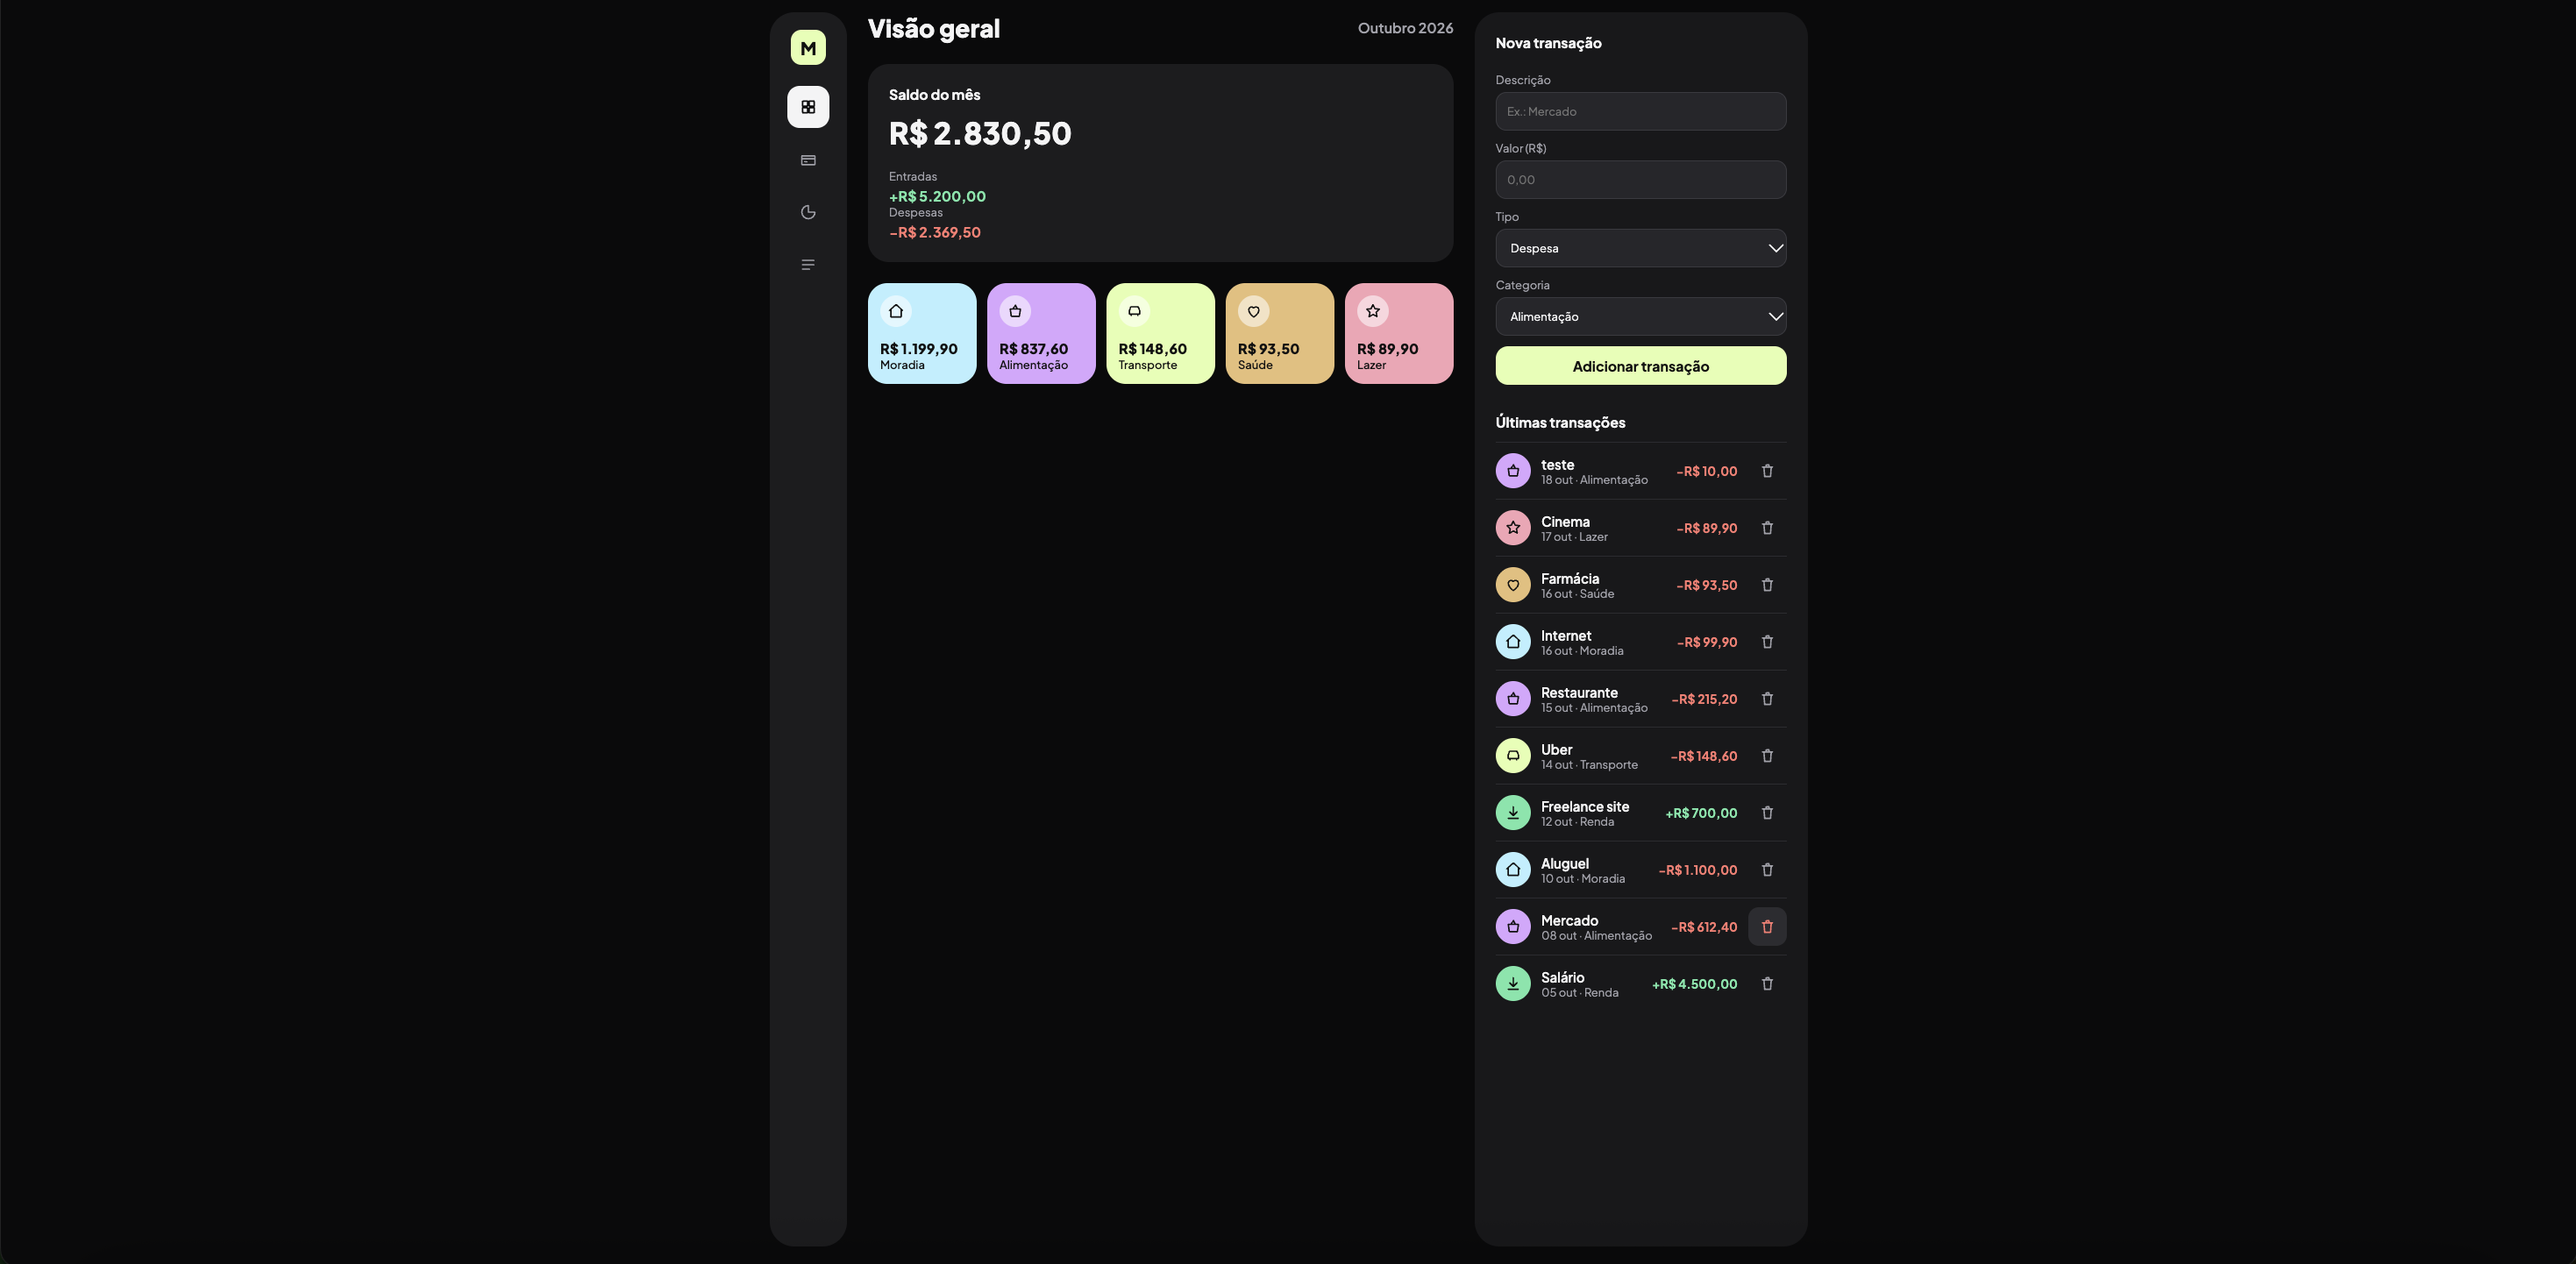
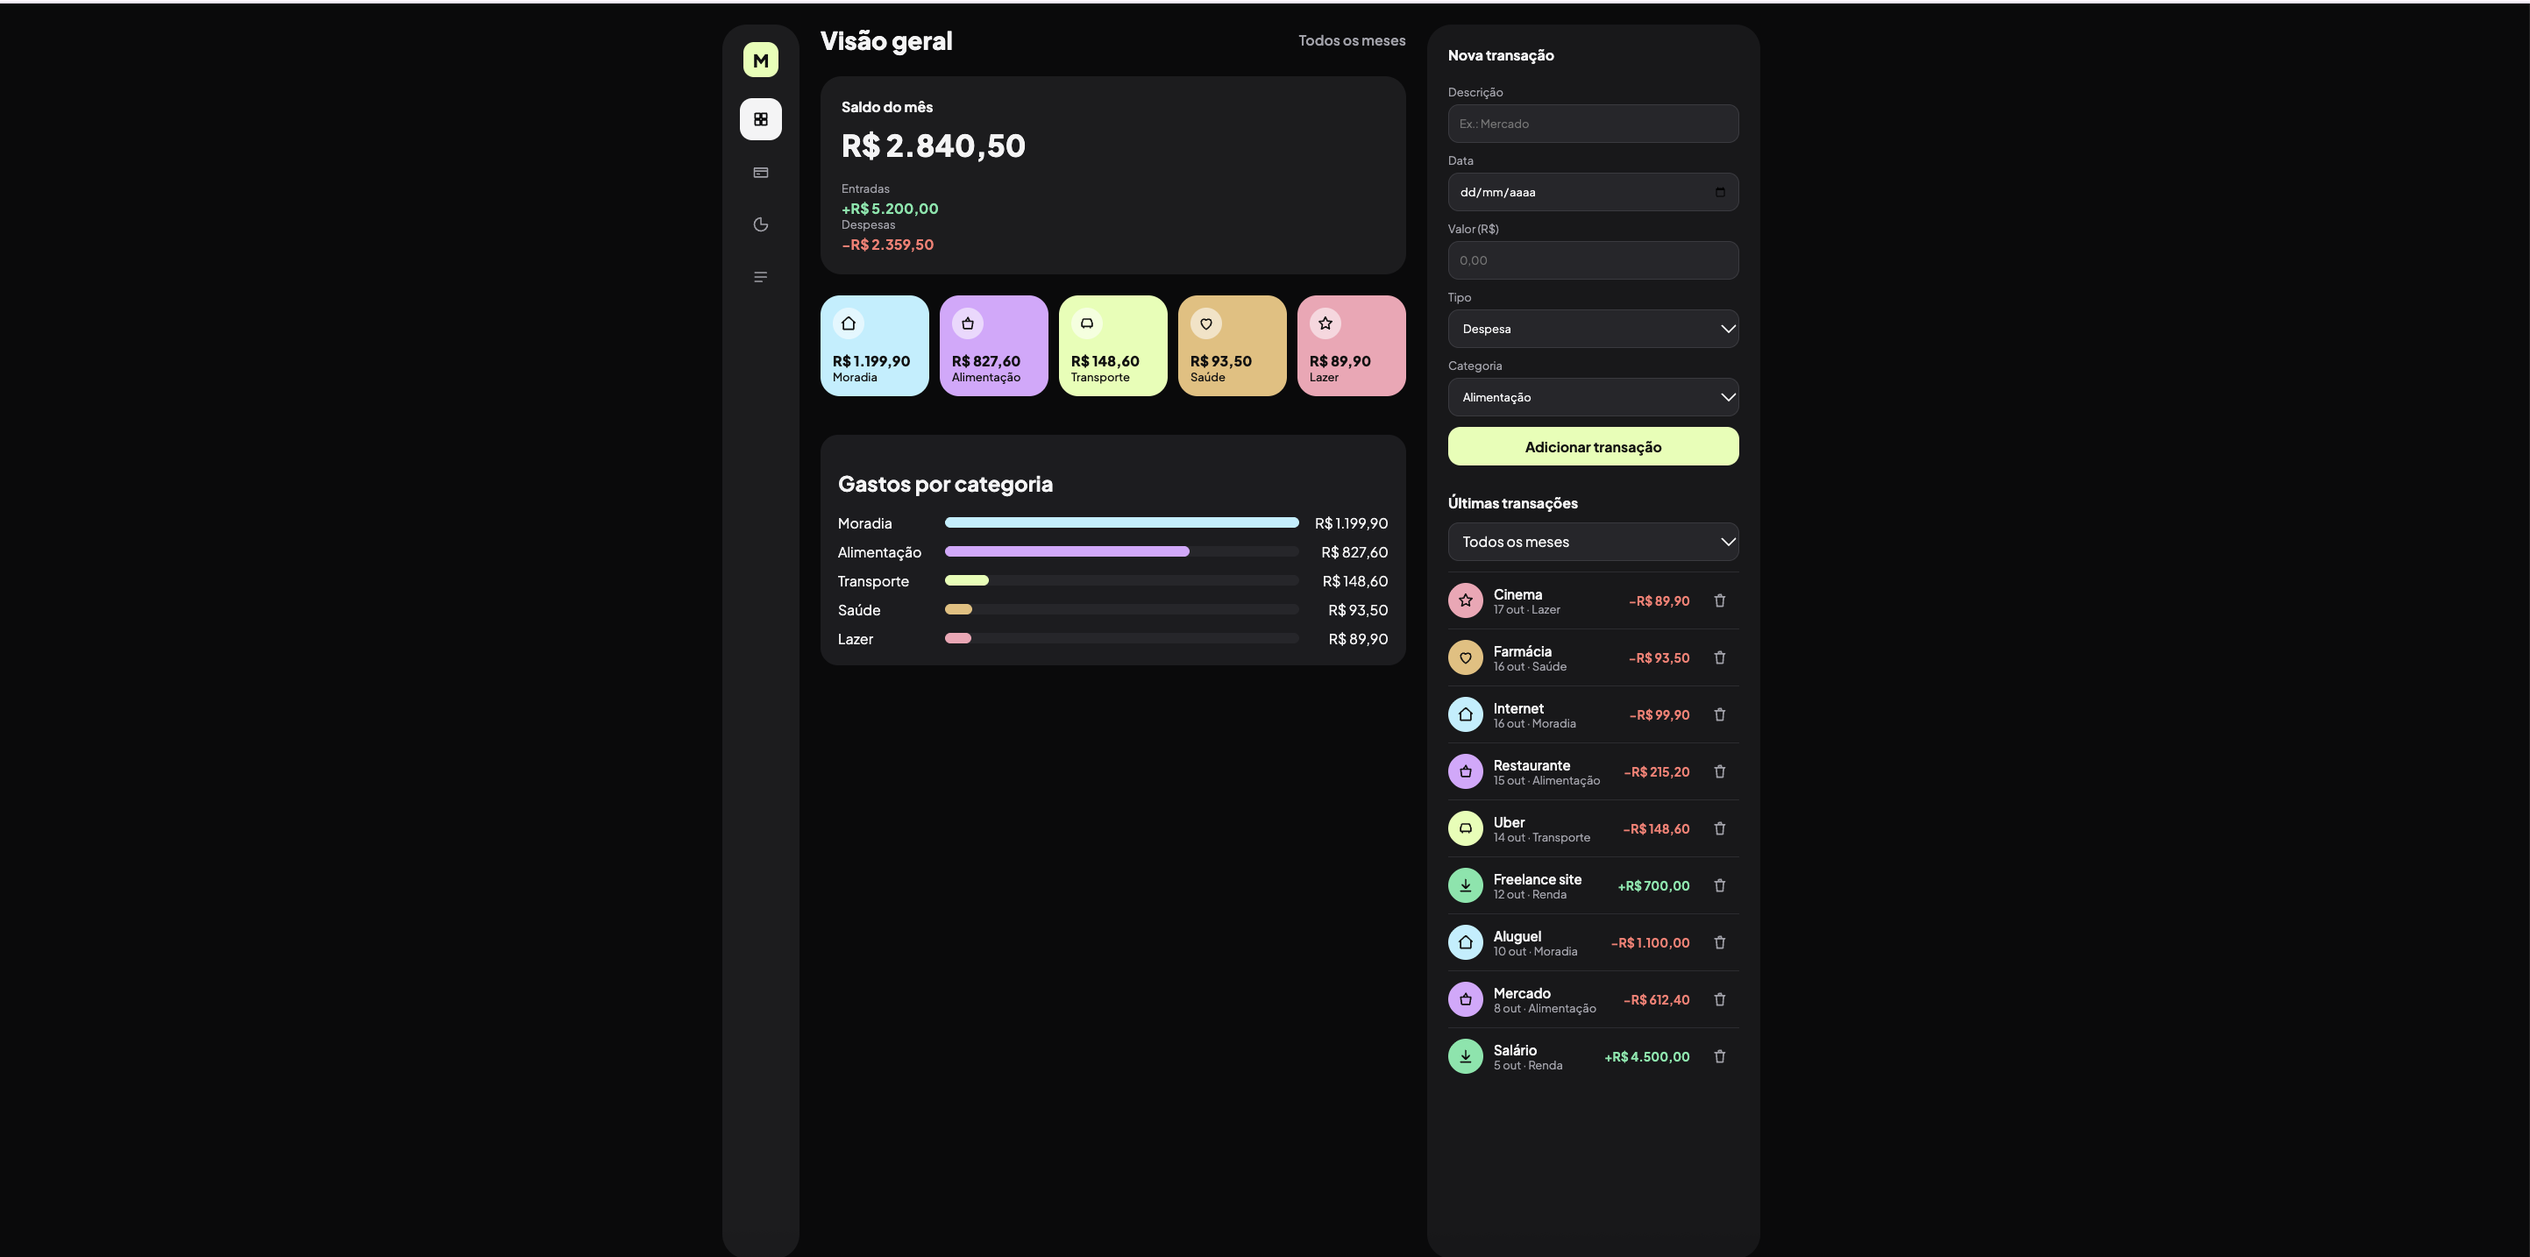
Atualiza README

Changed region(s): [[0.2807, 0.0, 0.7173, 0.8591], [0.9979, 0.0, 1.0, 1.0], [0.499, 0.0, 0.6237, 0.1841]]

diff --git a/README.md b/README.md
@@ -1,17 +1,22 @@
 # MoneyFlow
 
-Aplicativo de finanças pessoais feito com React. Registre entradas e despesas e acompanhe o saldo do mês.
+Aplicativo de finanças pessoais feito com React. Registre entradas e despesas, filtre por mês e acompanhe o saldo e os gastos por categoria.
 
 **Demo:** https://moneyflow-umber-iota.vercel.app/
+
 ![Tela do MoneyFlow](./screenshots/moneyflow.png)
 
 ## Funcionalidades
 
-- Adicionar transações com descrição, valor, tipo (entrada ou despesa) e categoria
+- Adicionar transações com descrição, data, valor, tipo (entrada ou despesa) e categoria
+- Validação do formulário: campos obrigatórios, valor válido e data que não pode ser no futuro
 - Apagar transações
-- Saldo, entradas e despesas calculados automaticamente
-- Cards de gastos por categoria, calculados a partir da lista
-- Dados salvos no navegador (localStorage), sem perder nada ao atualizar a página
+- Filtro por mês, com as opções geradas automaticamente a partir das transações
+- Saldo, entradas, despesas e cards de categoria que acompanham o mês escolhido
+- Gráfico de barras de gastos por categoria, feito só com HTML e CSS
+- Mensagem quando não há transações para mostrar
+- Dados salvos no navegador (localStorage), com proteção contra dados corrompidos
+- Layout responsivo, que funciona no celular
 
 ## Tecnologias
 
@@ -34,11 +39,14 @@ Aplicativo de finanças pessoais feito com React. Registre entradas e despesas e
 - Formulários controlados, com um estado para cada campo
 - Avisar o componente pai com funções passadas por props
 - Formatar dinheiro com `toLocaleString`
+- Validar dados do usuário antes de salvar
+- Tratar erros com `try/catch` para o app não quebrar
+- Remover repetidos com `Set` e ordenar listas com `.sort()`
+- Derivar uma lista filtrada a partir do estado, para a tela inteira acompanhar uma única escolha
+- Criar um gráfico sem biblioteca, calculando a largura das barras em porcentagem
+- Fazer layouts responsivos com media queries
 
 ## Próximas melhorias
 
-- Campo de data
-- Filtros por tipo, categoria e mês
 - Editar transações
-- Gráficos
-- Versão para celular
+- Filtros por tipo e categoria
